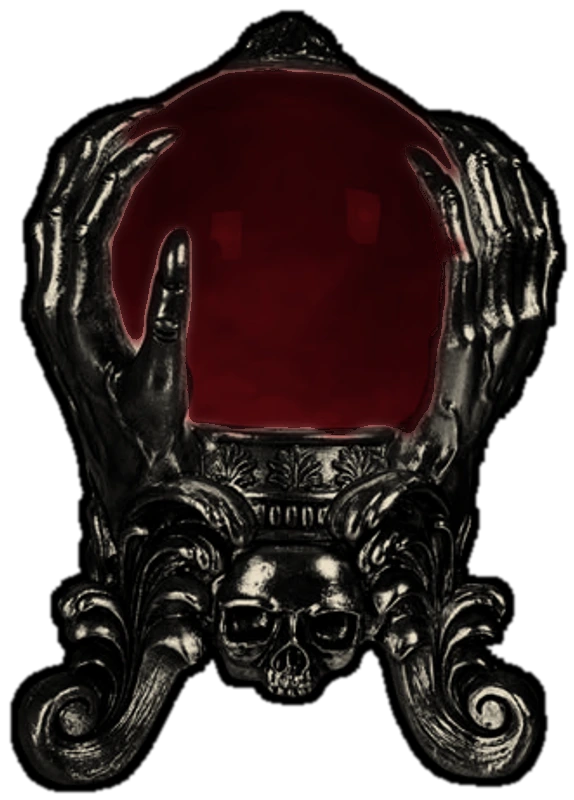
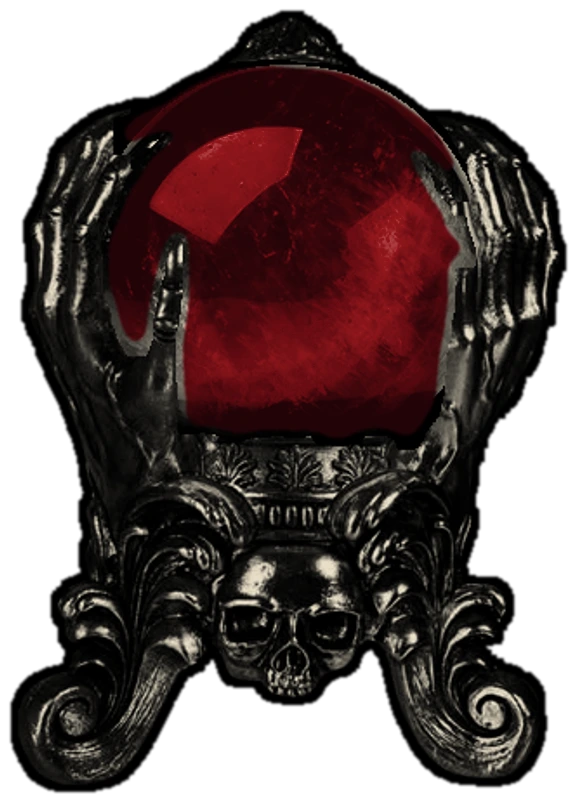
Bola roja con la textura del cuarzo de la bola 3; gotas de sangre con reparto irregular

Changed region(s): [[0.1777, 0.125, 0.8293, 0.5625], [0.385, 0.0625, 0.6812, 0.125], [0.2962, 0.0938, 0.385, 0.125]]

diff --git a/src/components/Blood.tsx b/src/components/Blood.tsx
@@ -49,9 +49,13 @@ export default function Blood() {
 
     const populate = () => {
       // pocas gotas en total (una cada ~130 px); de ellas solo 5 (2 en movil) caen, repartidas a lo ancho del borde
-      const gap = W < 700 ? 120 : 130, falling = W < 700 ? 2 : 5;
+      // reparto irregular: unas gotas casi juntas (racimos de 2-3) y otras muy separadas
+      const falling = W < 700 ? 2 : 5, k = W < 700 ? 0.9 : 1;
       const xs: number[] = [];
-      for (let x = rand(30, gap); x < W - 20; x += rand(gap * 0.75, gap * 1.4)) xs.push(x);
+      for (let x = rand(24, 120); x < W - 20; ) {
+        xs.push(x);
+        x += Math.random() < 0.4 ? rand(20, 52) * k : rand(110, 270) * k;
+      }
       const fallers = new Set(Array.from({ length: Math.min(falling, xs.length) }, (_, k) => Math.round((k * (xs.length - 1)) / Math.max(1, falling - 1))));
       drips = xs.map((x, i) => makeDrip(x, rand(0, 6), fallers.has(i)));
     };
